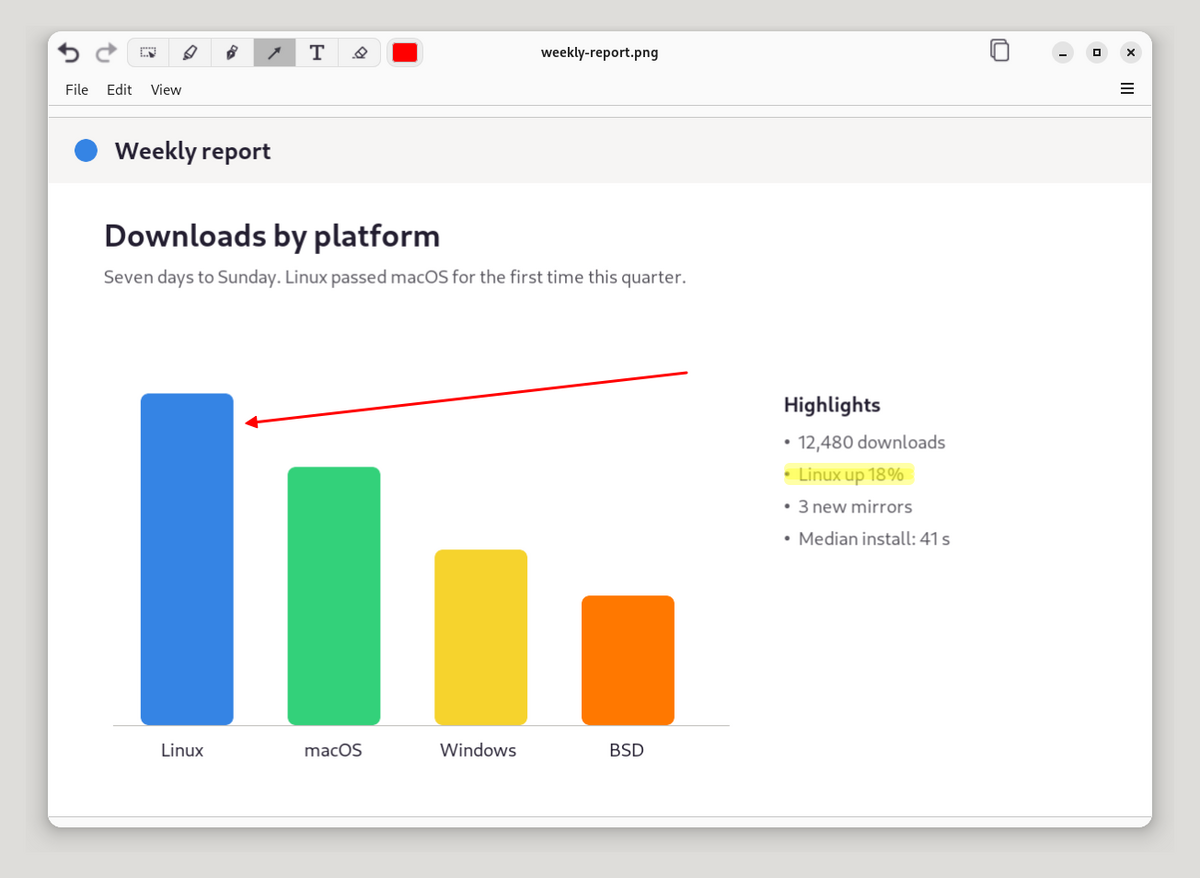
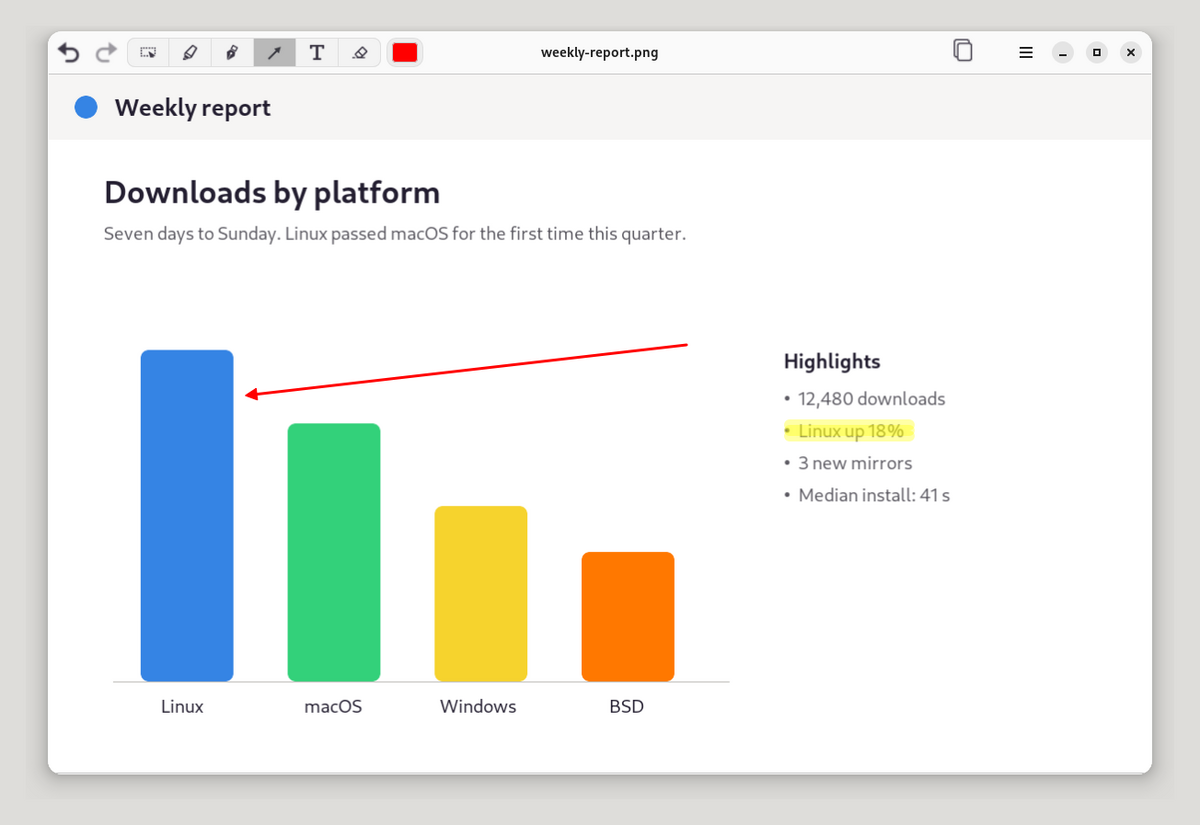
README: shots without the menu bar row, and current ThemeDemo pages (#49)
MarkdownViewer and ScreenshotTool under Adwaita are retaken with
-GnomeThemeMenuStyle primary: their menus are in the header bar's menu
and there is no menu bar row. MarkdownViewer's GNUstep side is retaken
too, as ObjcMarkdown's README, the document shown, has changed. The
Controls reference shows ThemeDemo's pages as the theme draws them now
(they dated from March).

place.sh skipped nothing and could pick Mutter's frame window, which has
the window's title but can't be sized; it now skips it.

diff --git a/Docs/Screenshots/README.md b/Docs/Screenshots/README.md
@@ -2,7 +2,8 @@
 
 ## `compare/`: GNUstep's theme and Adwaita
 
-The README's side-by-side shots. Taken 2026-10-07 on a private Xvfb with
+The README's side-by-side shots. Taken 2026-10-07 (MarkdownViewer and
+ScreenshotTool retaken the same day with the primary menu) on a private Xvfb with
 GNOME Shell 48.7 (X11) as the window manager, never on a real desktop, with
 the installed `+csd` libraries (gui 0.32.0-5+csd2, back 0.32.0-6+csd3), the
 theme built from this repository (0.1.0-alpha5 plus `main`), light style,
@@ -31,7 +32,9 @@ display.
 `danjboyd/ObjcMarkdown` built in `~/git/ObjcMarkdown`, with its libraries on
 `LD_LIBRARY_PATH` (`ObjcMarkdown/obj` and the three `third_party/*/obj`
 directories), opening that repository's `README.md` in Read mode. Placed at
-1036x740 visible (its minimum width) with `place.sh "^README.md"`.
+1036x740 visible (its minimum width) with `place.sh "^README.md"`. The
+Adwaita side runs with `-GnomeThemeMenuStyle primary`: the menus are in the
+header bar's ☰ and there is no menu bar row.
 
 ### ScreenshotTool
 
@@ -39,8 +42,11 @@ directories), opening that repository's `README.md` in Read mode. Placed at
 `weekly-report.png` (in `Tests/Scripts/readme-shots/`, drawn for these shots)
 copied to `/tmp/Pictures`, so the GNUstep title bar shows a short path. The
 GNUstep side keeps the image's full size (1200 wide; the app won't shrink
-it), and the Adwaita side is placed at the same visible size with
-`place.sh "weekly-report" Adwaita 1200 865`. Then, with `drag.sh`:
+it). The Adwaita side runs with `-GnomeThemeMenuStyle primary`, as
+MarkdownViewer's, and is placed with `place.sh "weekly-report" Adwaita
+1200 808`, the image's height plus the header bar (taller, and the app
+centres the image with empty bands above and below). Then, with
+`drag.sh`:
 
 - the highlighter (the default tool), three passes over "Linux up 18%";
 - the arrow tool, from the right of the chart's title to the Linux bar.
@@ -72,5 +78,10 @@ cramped at GNOME's fonts (#26): the shots show both as they are.
 
 ## `theme-*.png`
 
-ThemeDemo's pages, from `Tests/Scripts/capture-theme-demo.sh` (see the
-README's Development Notes).
+ThemeDemo's controls, text and data pages under Adwaita, taken 2026-10-07 in
+the same session as `compare/`:
+
+```sh
+$H/app.sh "$W" Adwaita Examples/ThemeDemo/ThemeDemo.app/ThemeDemo --page controls &
+$H/shot.sh "$W" theme-controls.png      # likewise --page text and --page data
+```

diff --git a/README.md b/README.md
@@ -24,14 +24,14 @@ with this one:
   </tr>
   <tr>
     <td><img src="Docs/Screenshots/compare/markdownviewer-gnustep.png" alt="MarkdownViewer with GNUstep's theme: the window manager's title bar, a grey in-window menu bar and toolbar, and arrow scrollers"></td>
-    <td><img src="Docs/Screenshots/compare/markdownviewer-adwaita.png" alt="MarkdownViewer with Adwaita: a header bar holding the toolbar and the Read, Edit and Split switcher, a flat menu bar with the primary menu, rounded corners and a window shadow"></td>
+    <td><img src="Docs/Screenshots/compare/markdownviewer-adwaita.png" alt="MarkdownViewer with Adwaita: a header bar holding the toolbar, the Read, Edit and Split switcher and the primary menu, rounded corners and a window shadow"></td>
   </tr>
   <tr>
     <td colspan="2" align="center"><a href="https://github.com/danjboyd/ObjcMarkdown">MarkdownViewer</a></td>
   </tr>
   <tr>
     <td><img src="Docs/Screenshots/compare/screenshottool-gnustep.png" alt="ScreenshotTool with GNUstep's theme, annotating a chart: bevelled toolbar buttons and a grey toolbar under the window manager's title bar"></td>
-    <td><img src="Docs/Screenshots/compare/screenshottool-adwaita.png" alt="ScreenshotTool with Adwaita, annotating the same chart: its tools as a linked button group in the header bar, symbolic icons and round window buttons"></td>
+    <td><img src="Docs/Screenshots/compare/screenshottool-adwaita.png" alt="ScreenshotTool with Adwaita, annotating the same chart: its tools as a linked button group in the header bar with the primary menu, symbolic icons and round window buttons"></td>
   </tr>
   <tr>
     <td colspan="2" align="center"><a href="https://github.com/danjboyd/ScreenshotTool">ScreenshotTool</a></td>
